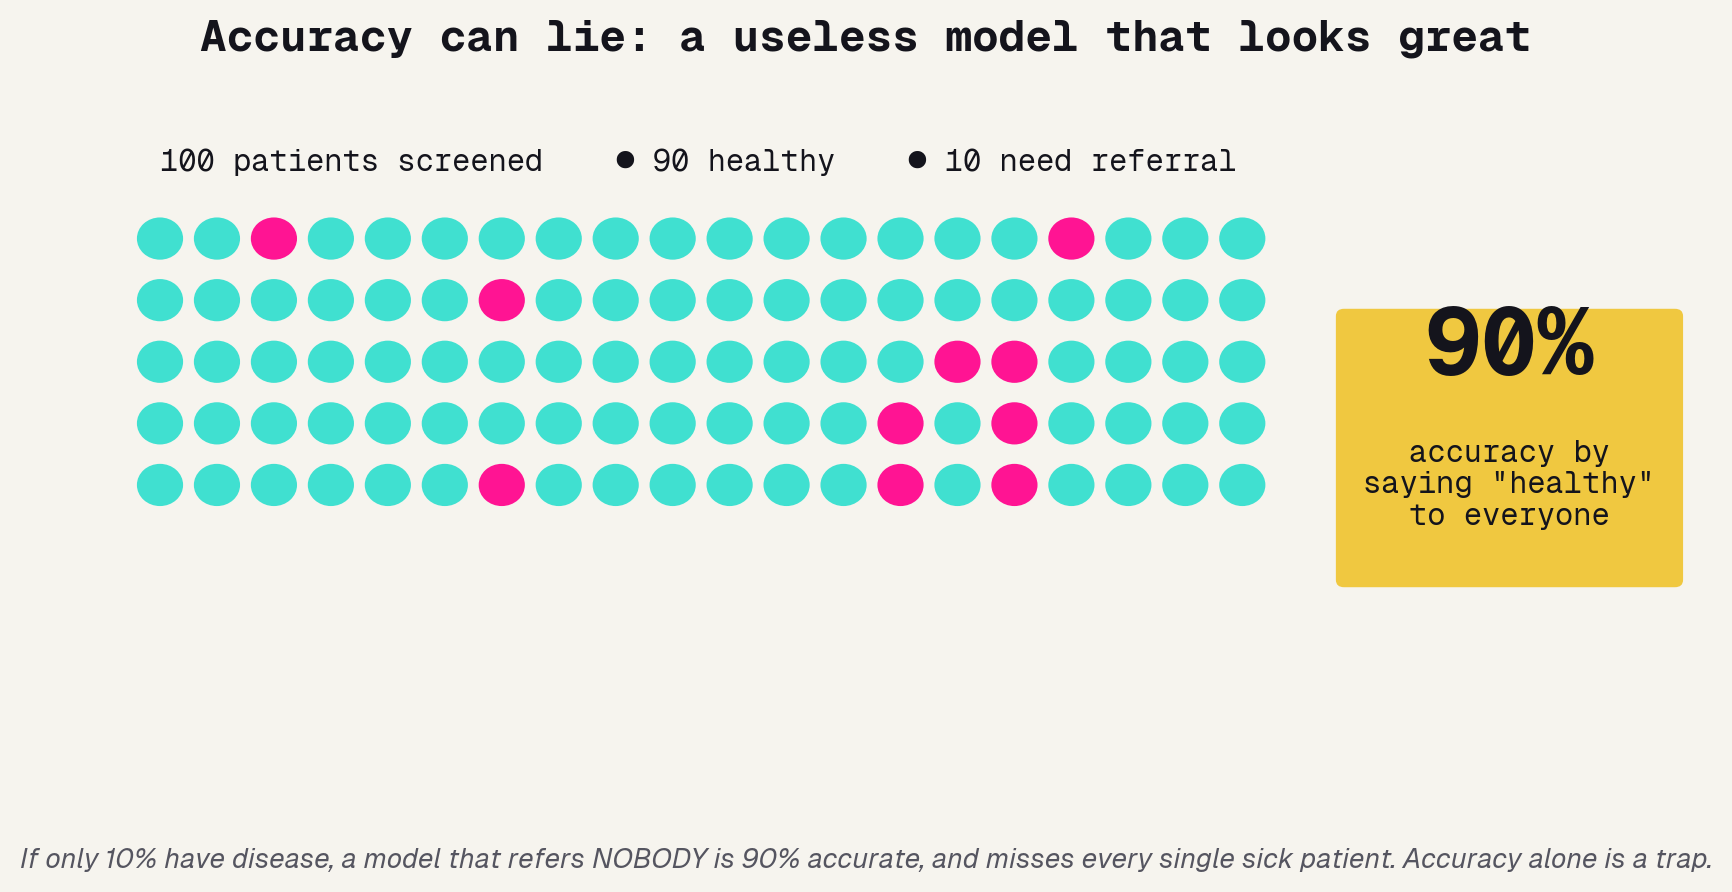
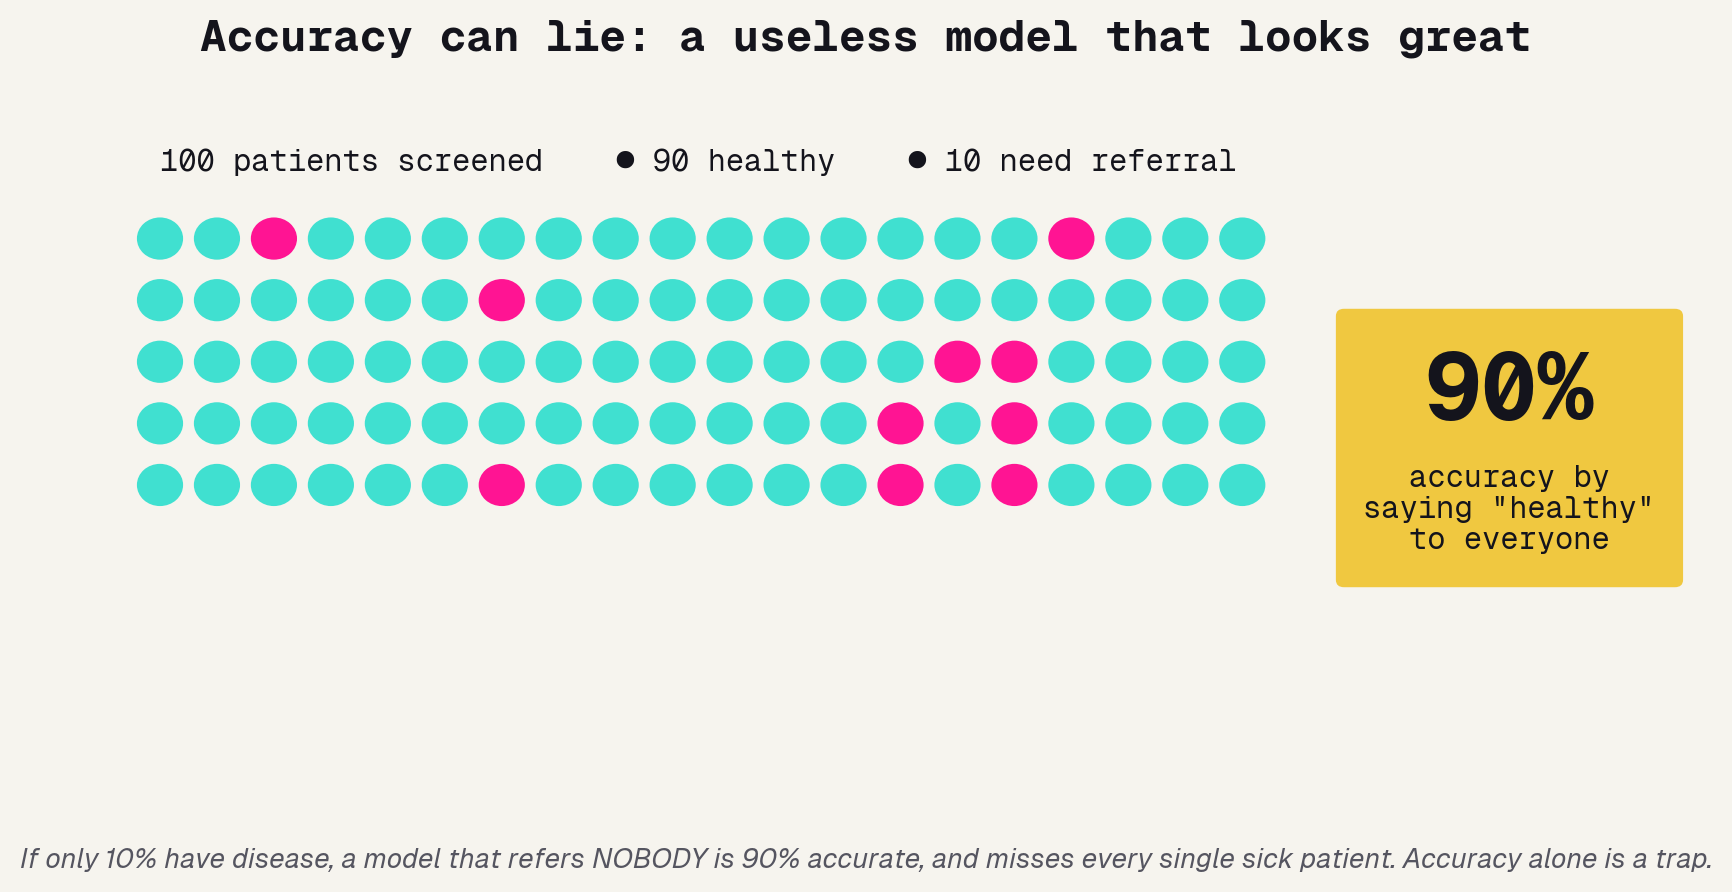
D1: vertically center big numbers in their boxes (slides 7, 24)
The grade numbers (0-4 severity scale) and the '90%' accuracy-trap callout used default
baseline text alignment, so a large glyph grew upward and nearly touched the top edge of
its box. Set va='center' and balanced the number/sublabel positions within each box so
there's even padding top and bottom.

Changed region(s): [[0.7794, 0.333, 0.9665, 0.6357]]

diff --git a/slides/figures_day1_clinical.py b/slides/figures_day1_clinical.py
@@ -185,8 +185,8 @@ def fig_severity_scale():
         x = x0 + i * (bw + gap)
         ax.add_patch(FancyBboxPatch((x, 1.5), bw, 1.4, boxstyle="round,pad=0.02,rounding_size=0.05",
                                     facecolor=c, edgecolor="none"))
-        ax.text(x + bw / 2, 2.5, g, ha="center", fontsize=26, fontweight="bold", color=txt_on(c), family="Geist Mono")
-        ax.text(x + bw / 2, 1.85, name, ha="center", fontsize=12, color=txt_on(c), family="Geist Mono")
+        ax.text(x + bw / 2, 2.42, g, ha="center", va="center", fontsize=26, fontweight="bold", color=txt_on(c), family="Geist Mono")
+        ax.text(x + bw / 2, 1.88, name, ha="center", va="center", fontsize=12, color=txt_on(c), family="Geist Mono")
     # brackets
     split = x0 + 2 * (bw + gap) - gap / 2
     ax.plot([x0, split - 0.1], [1.2, 1.2], color=MUTED, lw=2)

diff --git a/slides/figures_day1_extra.py b/slides/figures_day1_extra.py
@@ -147,8 +147,8 @@ def fig_accuracy_lies():
             fontsize=11, color=INK, family="Geist Mono")
     ax.add_patch(FancyBboxPatch((9.3, 1.4), 2.5, 2.2, boxstyle="round,pad=0.03,rounding_size=0.06",
                                 facecolor=AMBER, edgecolor="none"))
-    ax.text(10.55, 3.1, "90%", ha="center", fontsize=34, fontweight="bold", color=INK, family="Geist Mono")
-    ax.text(10.55, 2.2, 'accuracy by\nsaying "healthy"\nto everyone', ha="center", va="center",
+    ax.text(10.55, 2.95, "90%", ha="center", va="center", fontsize=34, fontweight="bold", color=INK, family="Geist Mono")
+    ax.text(10.55, 2.0, 'accuracy by\nsaying "healthy"\nto everyone', ha="center", va="center",
             fontsize=11, color=INK, family="Geist Mono")
     figtitle(fig, "Accuracy can lie: a useless model that looks great")
     fig.text(0.5, -0.03, "If only 10% have disease, a model that refers NOBODY is 90% accurate, "